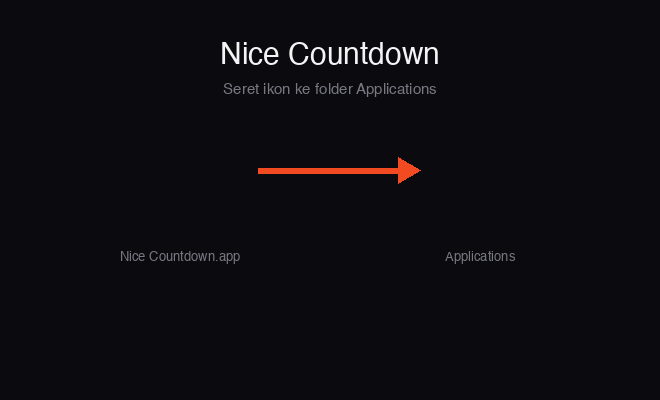
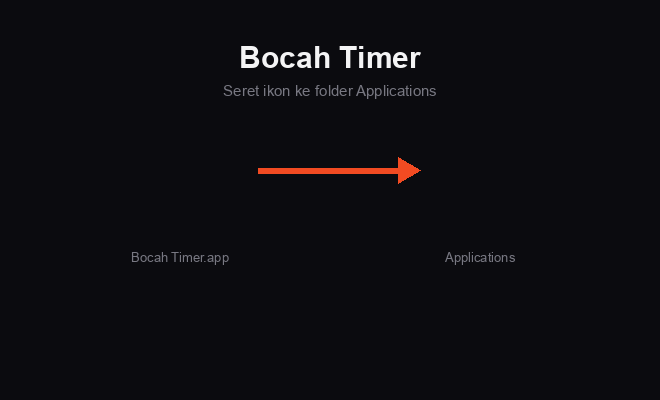
Rebrand to Bocah Timer + fix CI codesign on unsigned builds
- Rename product/app/crate/lib to Bocah Timer (bocah-timer / bocah_timer_lib);
  update window title, package name, UI brand + hero, DMG background, README
- Bundle identifier -> com.praditya.bocahtimer (no longer ends in .app)
- CI: only pass Apple signing env when APPLE_CERTIFICATE secret is set, so
  unsigned builds no longer fail at 'security import' codesign step

diff --git a/src/App.svelte b/src/App.svelte
@@ -204,7 +204,7 @@
   <div class="card">
   <header bind:clientHeight={headerH}>
     <div class="brand">
-      <span class="brand-name">TIMER</span>
+      <span class="brand-name">BOCAH TIMER</span>
       <span class="brand-by">by praditya</span>
     </div>
     <div class="actions">
@@ -231,7 +231,7 @@
   <div class="track" class:to-settings={showSettings}>
     <div class="view" bind:clientHeight={th}>
     <section class="timer">
-      <div class="hero">TIMER</div>
+      <div class="hero">BOCAH TIMER</div>
       {#if running}
         {#if label}<p class="goal">{label}</p>{/if}
         <div class="countdown">{fmt(remaining)}</div>
@@ -455,9 +455,10 @@
   }
   .hero {
     text-align: center;
-    font-size: 36px;
+    font-size: 30px;
     font-weight: 800;
-    letter-spacing: 0.03em;
+    letter-spacing: 0.02em;
+    white-space: nowrap;
     margin: 4px 0 22px;
     color: #f24b22;
   }

diff --git a/index.html b/index.html
@@ -3,7 +3,7 @@
   <head>
     <meta charset="UTF-8" />
     <meta name="viewport" content="width=device-width, initial-scale=1.0" />
-    <title>Nice Countdown</title>
+    <title>Bocah Timer</title>
   </head>
   <body>
     <div id="app"></div>

diff --git a/src-tauri/src/main.rs b/src-tauri/src/main.rs
@@ -2,5 +2,5 @@
 #![cfg_attr(not(debug_assertions), windows_subsystem = "windows")]
 
 fn main() {
-    nice_countdown_lib::run()
+    bocah_timer_lib::run()
 }

diff --git a/README.md b/README.md
@@ -1,4 +1,4 @@
-# Nice Countdown
+# Bocah Timer
 
 Menu-bar countdown timer for macOS. When the countdown ends, a translucent
 fullscreen overlay covers the main display (above the menu bar and Dock, across
@@ -32,7 +32,7 @@ bun run app:build
 
 Output:
 
-- `.app`: `src-tauri/target/universal-apple-darwin/release/bundle/macos/Nice Countdown.app`
+- `.app`: `src-tauri/target/universal-apple-darwin/release/bundle/macos/Bocah Timer.app`
 - `.dmg`: `src-tauri/target/universal-apple-darwin/release/bundle/dmg/`
 
 > On a Mac whose default `cargo` is not rustup-managed (e.g. MacPorts/Homebrew
@@ -43,19 +43,19 @@ Output:
 
 `.github/workflows/build.yml` builds the universal app on `macos-latest` and
 **publishes a GitHub Release automatically** on every push to `main` (release
-`Nice Countdown v<version>`, version read from `tauri.conf.json`). The `.dmg`
+`Bocah Timer v<version>`, version read from `tauri.conf.json`). The `.dmg`
 and `.app.tar.gz` are attached. Bump `version` in `package.json` +
 `src-tauri/tauri.conf.json` to cut a new release.
 
 ## Installing (Gatekeeper)
 
 The build is **unsigned**, so on first launch macOS shows
-*"Nice Countdown cannot be opened because the developer cannot be verified."*
+*"Bocah Timer cannot be opened because the developer cannot be verified."*
 This is expected for any app without a paid Apple Developer ID. To open:
 
 ```bash
 # easiest — clear the quarantine flag, then open normally
-xattr -dr com.apple.quarantine "/Applications/Nice Countdown.app"
+xattr -dr com.apple.quarantine "/Applications/Bocah Timer.app"
 ```
 
 or **right-click the app → Open → Open**, or
